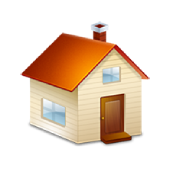
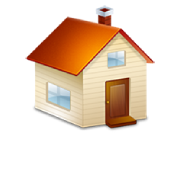
1

diff --git a/css/estilo.css b/css/estilo.css
@@ -35,7 +35,7 @@ a:hover {
 
 header#cabecalho img#icone {
     position: absolute;
-    right: 340px;
+    right: 350px;
     top: 50px;
 }
 header#cabecalho{
